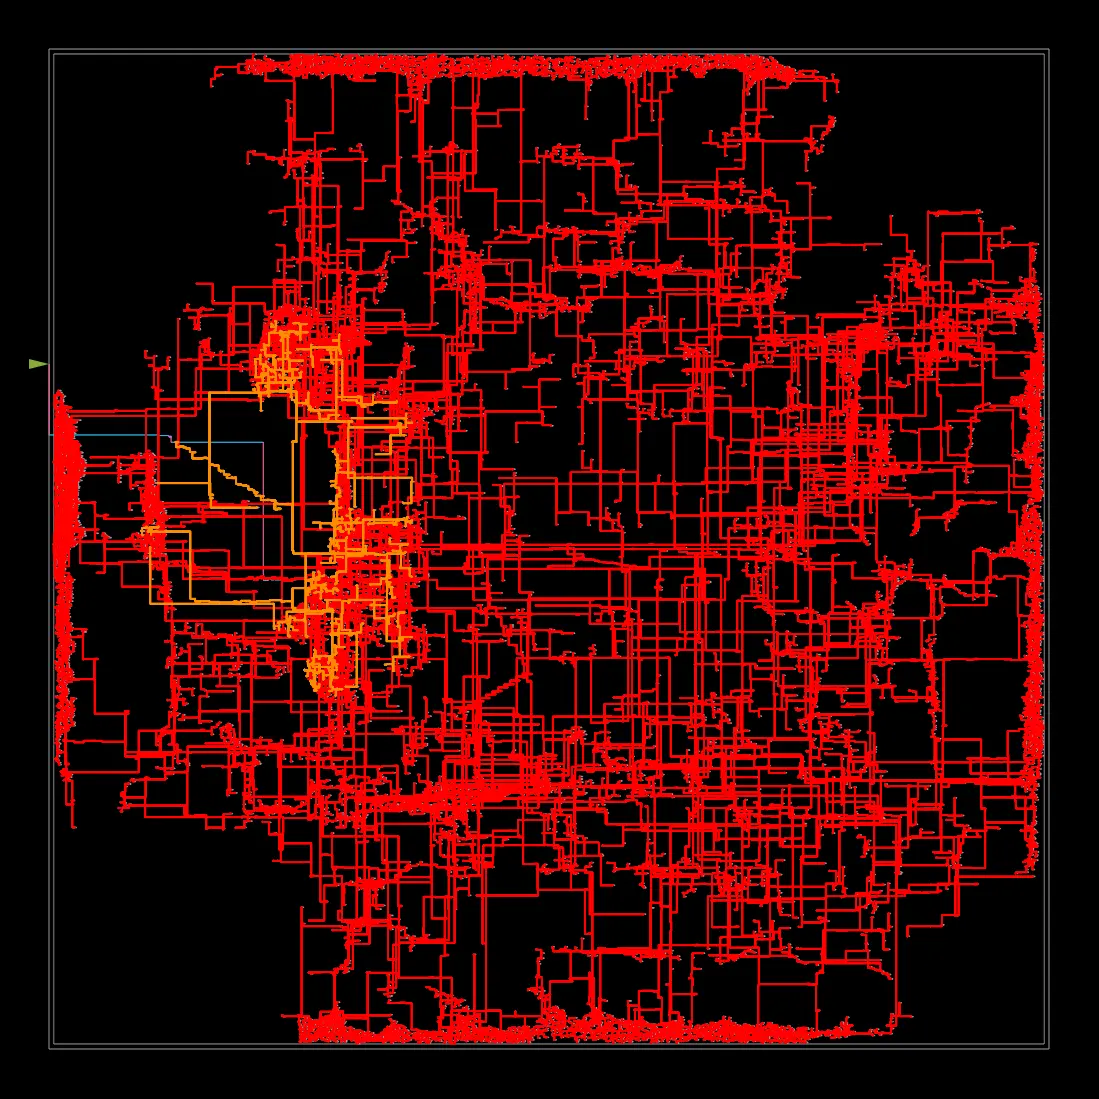
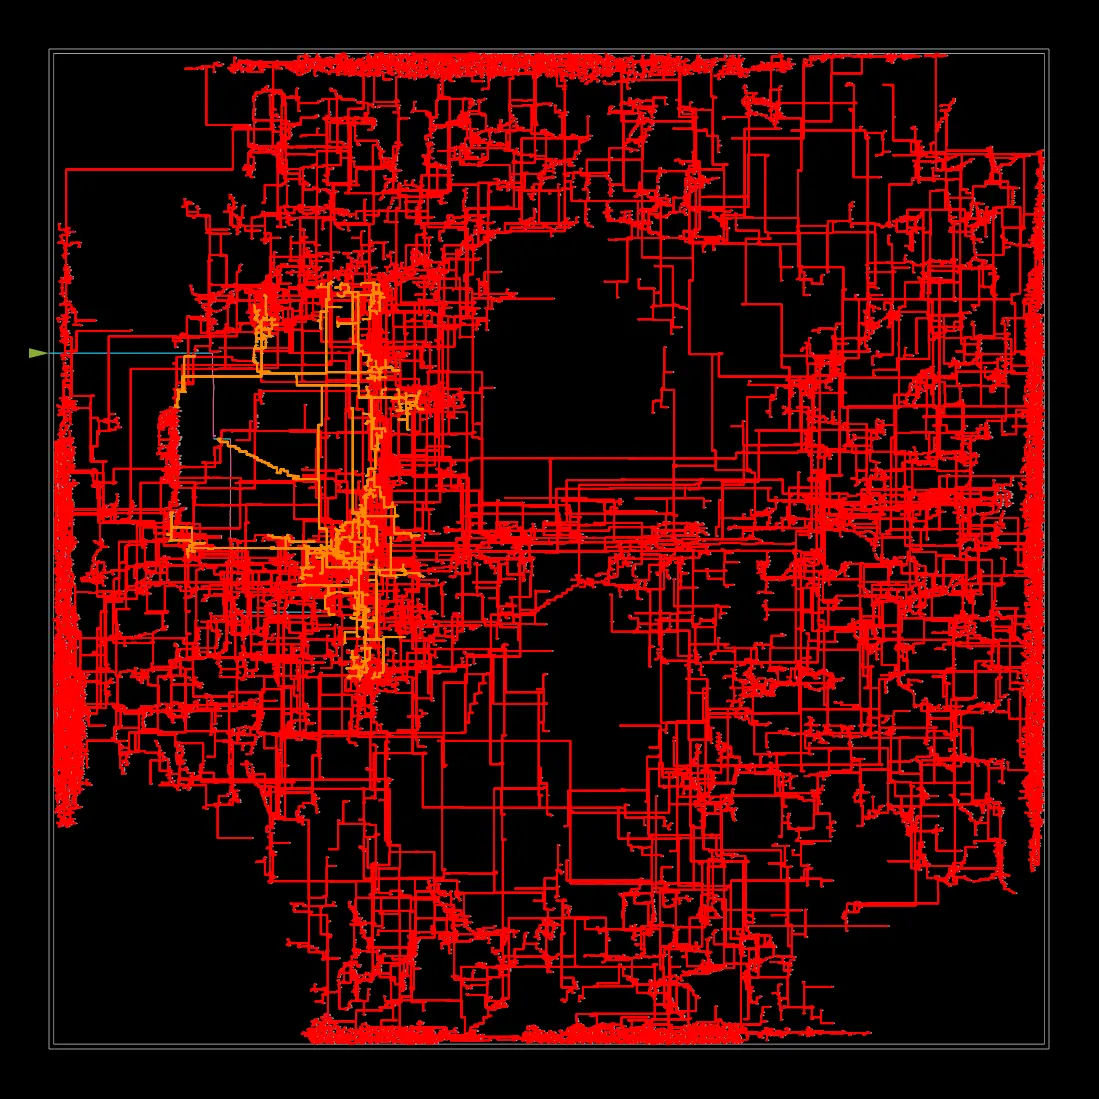
v3: three-stage MAC pipeline lifts signoff to 952 MHz
25 multiply-add pairs -> 5 partial sums -> round/saturate. +105 MHz over
the two-stage array for +7% area and one extra cycle of latency; power
holds at 72 mW, DRC and congestion stay at zero.

diff --git a/README.md b/README.md
@@ -39,9 +39,10 @@ with the bank count — a `blk_v = 1` frame performs zero SRAM accesses.
 
 ### Micro-architecture notes that came from measurement, not intuition
 
-- **MAC grouping**: the 50 taps are compressed in 9 groups; 9 was chosen over
-  7 by measuring mapped logic depth (36/35 levels vs 40/31) at a cost of
-  +0.9 % area.
+- **MAC pipelining**: two balanced MAC stages measured ~35 logic levels each
+  (1.18 ns at the SS corner), so the array is cut three ways — 25 multiply-add
+  pairs, 5 partial sums, and a final round/saturate stage — buying +105 MHz of
+  signoff fmax for +7 % area and one cycle of latency.
 - **Elastic interfaces**: both stream ports terminate in two-slot register
   FIFOs so the pipeline enable is a function of registers only. The first
   physical-design iteration proved why: a combinational
@@ -66,7 +67,7 @@ with the bank count — a `blk_v = 1` frame performs zero SRAM accesses.
 - **Self-checking testbench** (`verification/img_filter_tb.v`): behavioural
   single-port SRAM model with X-initialized contents, randomized
   ready/valid pressure on both ports, X injection on unused lanes, latency
-  and dead-cycle checks. **54 frames, 2,316,044 component comparisons, 0
+  and dead-cycle checks. **54 frames, 2,821,840 component comparisons, 0
   errors** on the current RTL.
 
 ```sh
@@ -92,16 +93,16 @@ cd $ORFS/flow && make DESIGN_CONFIG=./designs/asap7/img_filter/config.mk
 All numbers from the `6_finish` signoff report of a completed RTL-to-GDSII
 run (post-route parasitics, SS corner):
 
-| Metric | Value |
-| --- | --- |
-| Signoff fmax | **847 MHz** (setup WNS −180 ps against the 1 GHz target) |
-| Hold WS | −25 ps residual after repair |
-| DRC violations | **0** |
-| Routing congestion overflow | **0** on all 7 metal layers (peak usage 26 % on M3) |
-| Synthesis area | 39,842 µm² (≈ 455 k NAND2-equivalents) |
-| Post-route std-cell area | 47,410 µm², 492 k instances, 26.2 % utilization |
-| Power (vectorless, 1 GHz) | 75 mW — clock gating cut it 44× vs. the ungated first spin |
-| Worst IR drop | 7.8 mV |
+| Metric | v2 (2-stage MAC) | v3 (3-stage MAC) |
+| --- | --- | --- |
+| Signoff fmax | 847 MHz | **952 MHz** (setup WNS −50 ps vs. 1 GHz) |
+| Hold WS | −25 ps residual | −38 ps residual |
+| DRC violations | 0 | **0** |
+| Routing congestion overflow | 0 | **0** on all 7 metal layers |
+| Synthesis area | 39,842 µm² | 42,697 µm² (+7 % for the extra pipe registers) |
+| Post-route std-cell area | 47,410 µm² | 50,471 µm², 513 k instances |
+| Power (vectorless, 1 GHz) | 75 mW | **72 mW** |
+| Worst IR drop | 7.8 mV | 7.5 mV |
 
 ### The bottleneck hunt, in one paragraph
 
@@ -113,9 +114,10 @@ fixed in RTL with elastic skid buffers and inferred ICG clock gates), and
 several layers of constraint fiction (generic IO budgets on same-clock SRAM
 pins, ideal-launch vs. propagated-capture skew, silently failing SDC
 collection arithmetic — each diagnosed from repair-log behavior and fixed
-with explicit, insertion-tracking pin constraints).  The clean rerun closed
-at **847 MHz / 75 mW** with the one honest limiter remaining: the 50-tap MAC
-compressor tree at the 0.63 V SS corner. Layout gallery in [`docs/img/`](docs/img/).
+with explicit, insertion-tracking pin constraints).  The clean rerun closed at 847 MHz / 75 mW with the MAC compressor tree as the
+one honest limiter, and a third MAC pipeline stage then took signoff to
+**952 MHz / 72 mW** — the remaining 50 ps is the RVT-cell floor at 0.63 V,
+with SLVT cells as the obvious next lever. Layout gallery in [`docs/img/`](docs/img/).
 
 | | |
 |---|---|
